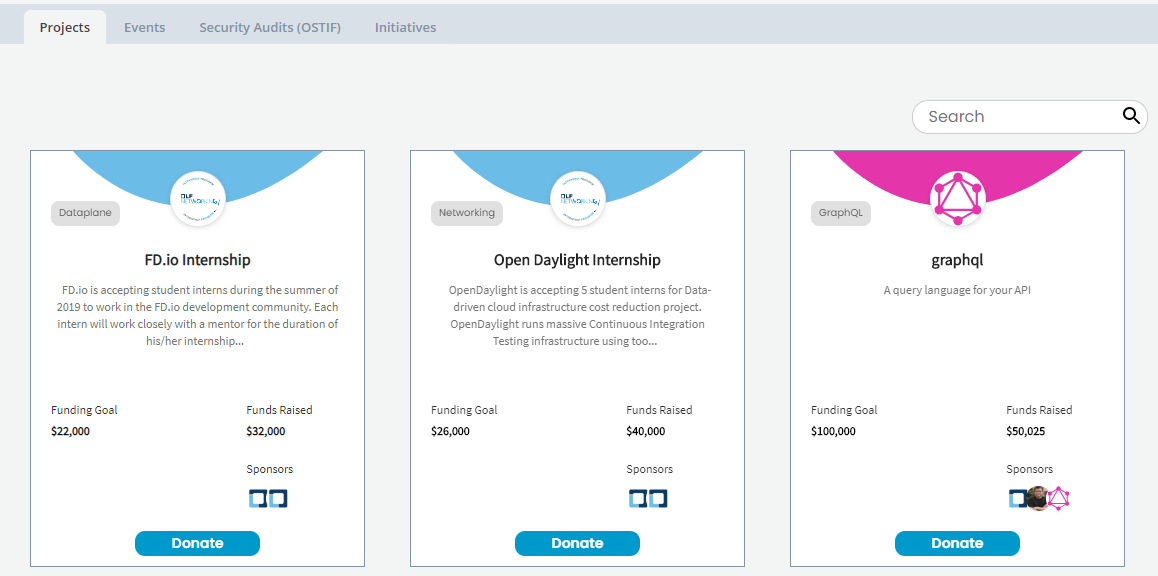
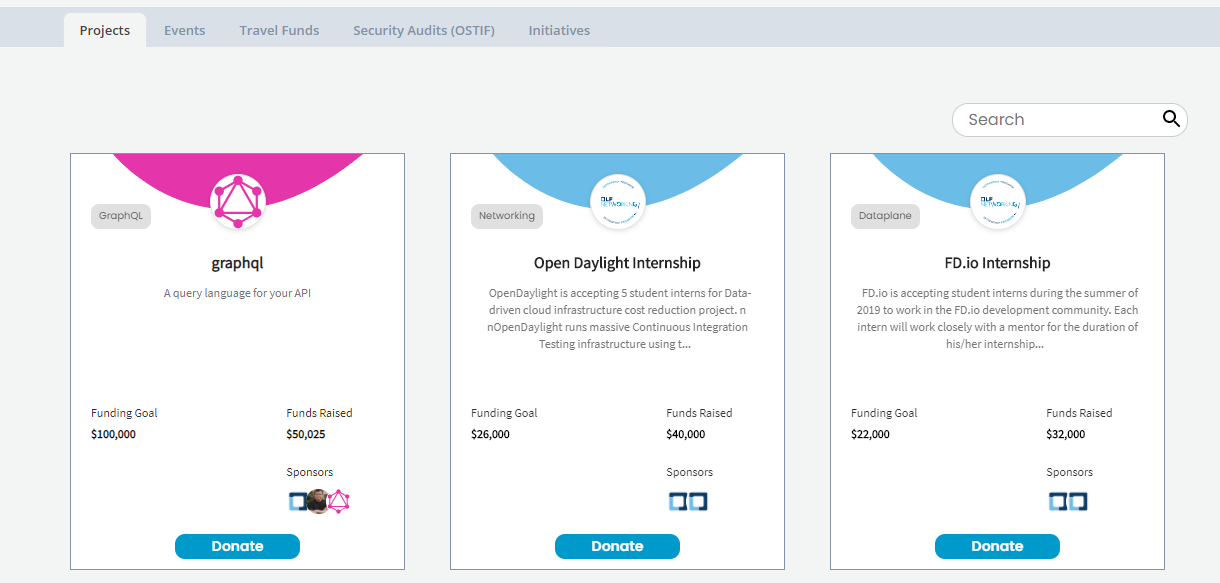
GitBook: [master] 2 pages and 6 assets modified

diff --git a/communitybridge/crowd-funding/dashboard/README.md b/communitybridge/crowd-funding/dashboard/README.md
@@ -37,7 +37,7 @@ For each project, the project card shows the following information:
 
 To know more about a project, see [Projects](projects.md).
 
-![Projects](../../../.gitbook/assets/funding-project-cards.png)
+![Funding Projects](../../../.gitbook/assets/funding-project-cards.png)
 
 ## Events <a id="Dashboard-Events"></a>
 
@@ -53,7 +53,22 @@ To know more about a project, see [Projects](projects.md).
 
 To know more about events, see [Events](events.md).
 
-![Events](../../../.gitbook/assets/event-cards.png)
+![Funding Events](../../../.gitbook/assets/crowdfunding-events.png)
+
+## Travel Funds <a id="Dashboard-TravelScholarships"></a>
+
+**Travel Funds** lists travel funds for project related events and meet-ups, for example a travel fund to attend a women's conference. For each travel fund, a travel fund card shows the following information:
+
+* Travel Fund name, logo, and description.
+* Technologies or Categories the travel related event or meet-up is associated with.
+* Dates show the start date and end date of the meet up or event.
+* Funds Raised shows total funds raised so far.
+* Sponsors shows images of sponsors \(Individuals and Organizations\) for the travel fund.
+*  **Donate** lets you donate funds to a travel fund that you want to support. You can donate as an [individual](../donate-sponsor/donate-as-an-individual.md) or as a [sponsor organization](../donate-sponsor/donate-as-a-sponsor/).
+
+To know more, see [Travel Funds](travel-funds.md).
+
+![Funding Travel Funds](../../../.gitbook/assets/funding-travel-funds.png)
 
 ## Security Audits \(OSTIF\)
 
@@ -69,26 +84,13 @@ Click **Donate** to donate to the project. To know more, see [Security Audit](se
 
 Following example show a project that is applied for security audit.
 
-![Project Applied for Security Audit](../../../.gitbook/assets/security-audit-projects.png)
+![Project Applied to Security Audit](../../../.gitbook/assets/security-audit-projects.png)
 
 ## Initiatives
 
 Initiatives lists all the different types of initiatives for which people have raised funds. You can click an initiative to learn more about it. For details to know about an initiative, see the [project/initiative details](projects.md). Click  **Donate** to support the initiative. To know more, see [Initiatives](initiatives.md).
 
 ![Initiatives](../../../.gitbook/assets/initiatives.png)
-
-## Travel Funds <a id="Dashboard-TravelScholarships"></a>
-
-**Travel Funds** lists travel funds for project related events and meet-ups, for example a travel fund to attend a women's conference. For each travel fund, a travel fund card shows the following information:
-
-* Travel Fund name, logo, and description.
-* Technologies or Categories the travel related event or meet-up is associated with.
-* Dates show the start date and end date of the meet up or event.
-* Funds Raised shows total funds raised so far.
-* Sponsors shows images of sponsors \(Individuals and Organizations\) for the travel fund.
-*  **Donate** lets you donate funds to a travel fund that you want to support. You can donate as an [individual](../donate-sponsor/donate-as-an-individual.md) or as a [sponsor organization](../donate-sponsor/donate-as-a-sponsor/).
-
-To know more, see [Travel Funds](travel-funds.md).
 
 ### Learn more:
 

diff --git a/communitybridge/crowd-funding/dashboard/travel-funds.md b/communitybridge/crowd-funding/dashboard/travel-funds.md
@@ -18,14 +18,13 @@ The overview shows some or all of the following items depending on the data that
 | Name | Description |
 | :--- | :--- |
 | **Current Balance** | The total amount of funds available in the account. |
-| **Backers**  | The number of individuals who have donated to the event. This number includes individual and organization donations by individual Linux Foundation accounts. The number of backers indicates the popularity and momentum of the event. |
 | **Sponsor Organizations** | The logos of the companies that sponsor the project. |
 | **Visit Website** | Opens the associated website. |
 
   
 View an example of a travel fund overview section:
 
-![](../../../.gitbook/assets/7418525%20%281%29.png)
+![Travel Fund Overview](../../../.gitbook/assets/travel-fund-overview.png)
 
 ## Dashboard <a id="TravelScholarships-Dashboard"></a>
 
